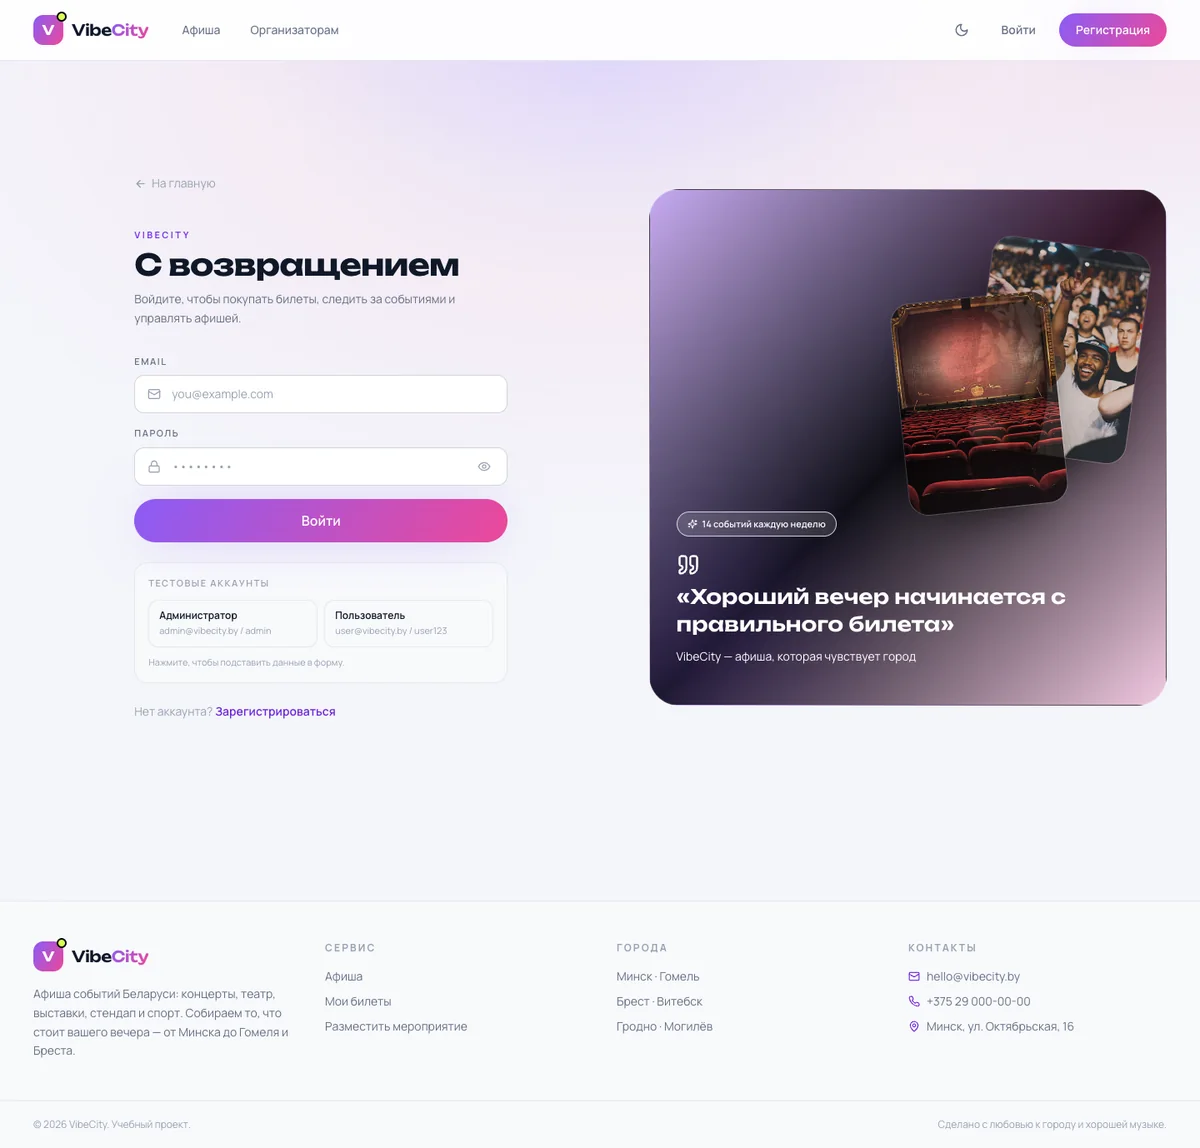
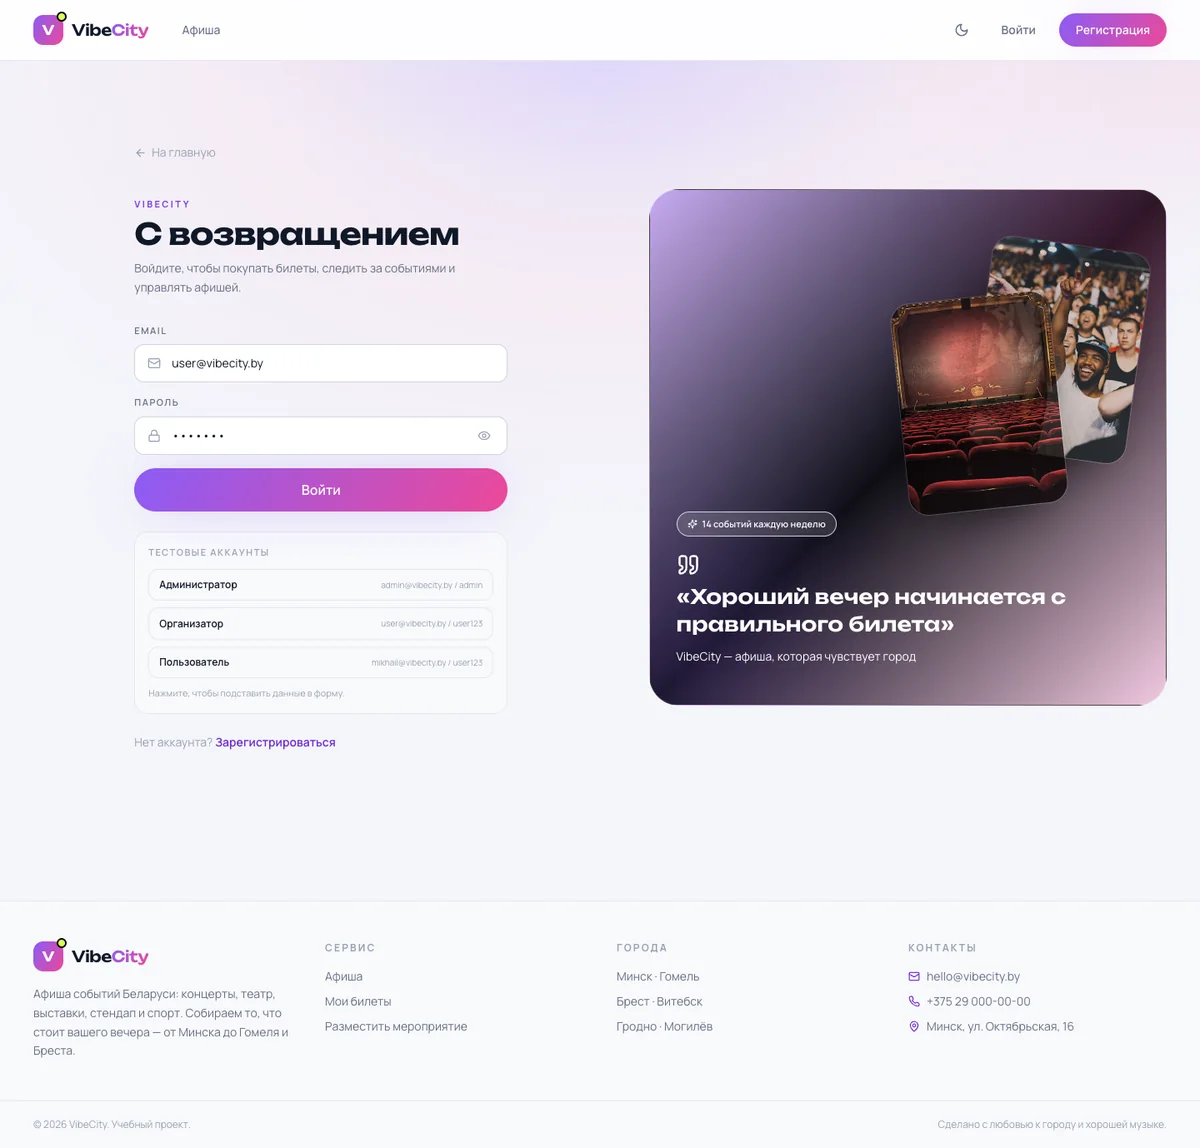
Add organizer credentials to login screen

diff --git a/frontend/src/pages/LoginPage.tsx b/frontend/src/pages/LoginPage.tsx
@@ -7,6 +7,14 @@ import { getErrorMessage } from '../api/client';
 import { AuthShell } from '../components/AuthShell';
 import { useAuthStore } from '../stores/authStore';
 
+const DEMO_ACCOUNTS = [
+  { role: 'admin', label: 'Администратор', email: 'admin@vibecity.by', password: 'admin' },
+  { role: 'organizer', label: 'Организатор', email: 'user@vibecity.by', password: 'user123' },
+  { role: 'user', label: 'Пользователь', email: 'mikhail@vibecity.by', password: 'user123' },
+] as const;
+
+type DemoAccount = (typeof DEMO_ACCOUNTS)[number];
+
 export const LoginPage = () => {
   const navigate = useNavigate();
   const location = useLocation();
@@ -41,9 +49,9 @@ export const LoginPage = () => {
     mutation.mutate({ email: email.trim(), password });
   };
 
-  const fillDemo = (role: 'admin' | 'user') => {
-    setEmail(role === 'admin' ? 'admin@vibecity.by' : 'user@vibecity.by');
-    setPassword(role === 'admin' ? 'admin' : 'user123');
+  const fillDemo = (account: DemoAccount) => {
+    setEmail(account.email);
+    setPassword(account.password);
     setError('');
   };
 
@@ -127,23 +135,21 @@ export const LoginPage = () => {
         <p className="text-[11px] font-semibold uppercase tracking-[0.14em] text-white/35">
           Тестовые аккаунты
         </p>
-        <div className="mt-3 grid gap-2 sm:grid-cols-2">
-          <button
-            type="button"
-            onClick={() => fillDemo('admin')}
-            className="rounded-xl border border-white/10 bg-white/[0.03] px-3 py-2.5 text-left transition hover:border-vibe-400/40 hover:bg-vibe-500/10"
-          >
-            <span className="block text-xs font-semibold text-white">Администратор</span>
-            <span className="mt-0.5 block text-[11px] text-white/40">admin@vibecity.by / admin</span>
-          </button>
-          <button
-            type="button"
-            onClick={() => fillDemo('user')}
-            className="rounded-xl border border-white/10 bg-white/[0.03] px-3 py-2.5 text-left transition hover:border-vibe-400/40 hover:bg-vibe-500/10"
-          >
-            <span className="block text-xs font-semibold text-white">Пользователь</span>
-            <span className="mt-0.5 block text-[11px] text-white/40">user@vibecity.by / user123</span>
-          </button>
+        <div className="mt-3 grid gap-2">
+          {DEMO_ACCOUNTS.map((account) => (
+            <button
+              key={account.role}
+              type="button"
+              onClick={() => fillDemo(account)}
+              title={`${account.email} / ${account.password}`}
+              className="flex items-center justify-between gap-3 rounded-xl border border-white/10 bg-white/[0.03] px-3 py-2.5 text-left transition hover:border-vibe-400/40 hover:bg-vibe-500/10"
+            >
+              <span className="text-xs font-semibold text-white">{account.label}</span>
+              <span className="shrink-0 text-right text-[10px] leading-relaxed text-white/40">
+                {account.email} / {account.password}
+              </span>
+            </button>
+          ))}
         </div>
         <p className="mt-2.5 text-[11px] text-white/25">Нажмите, чтобы подставить данные в форму.</p>
       </div>

diff --git a/README.md b/README.md
@@ -122,8 +122,10 @@ docker compose up -d --force-recreate backend frontend
 | Пользователь | `mikhail@vibecity.by` | `user123` | билеты и отзывы, без кабинета организатора |
 | Пользователь | `elena@vibecity.by` | `user123` | билеты и отзывы, без кабинета организатора |
 
-Роль организатора выдаётся в админ-панели: «Пользователи» → выпадающий список роли →
-«Организатор». Если база была создана до появления роли `ORGANIZER`, пересоздайте демо-данные:
+На странице входа есть карточки быстрого заполнения для администратора, организатора и
+пользователя. Роль организатора выдаётся в админ-панели: «Пользователи» → выпадающий список
+роли → «Организатор». Если база была создана до появления роли `ORGANIZER`, пересоздайте
+демо-данные:
 
 ```bash
 docker compose exec backend node dist/seed.js --force
